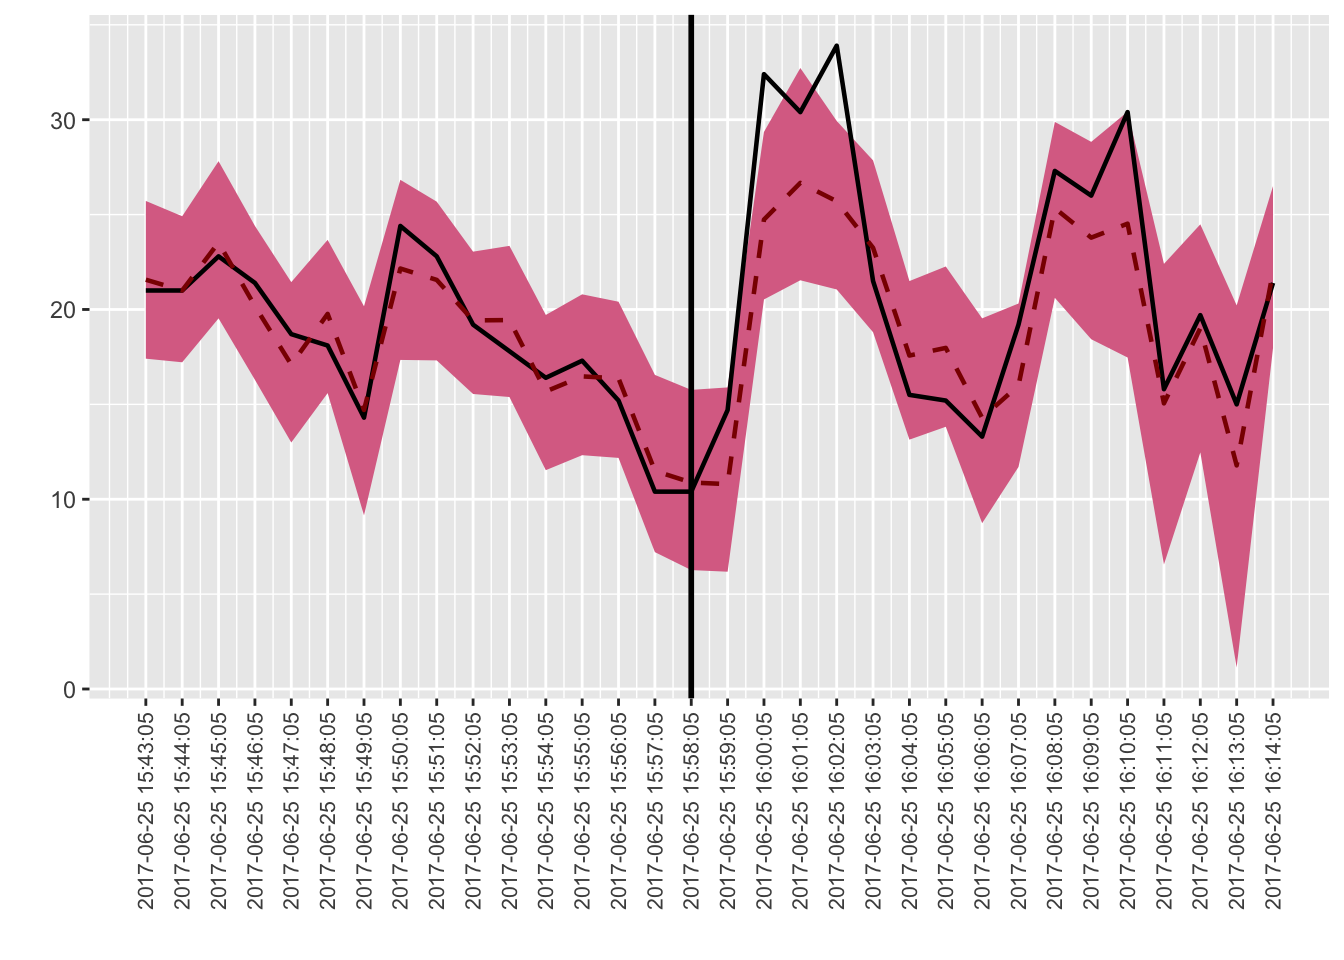
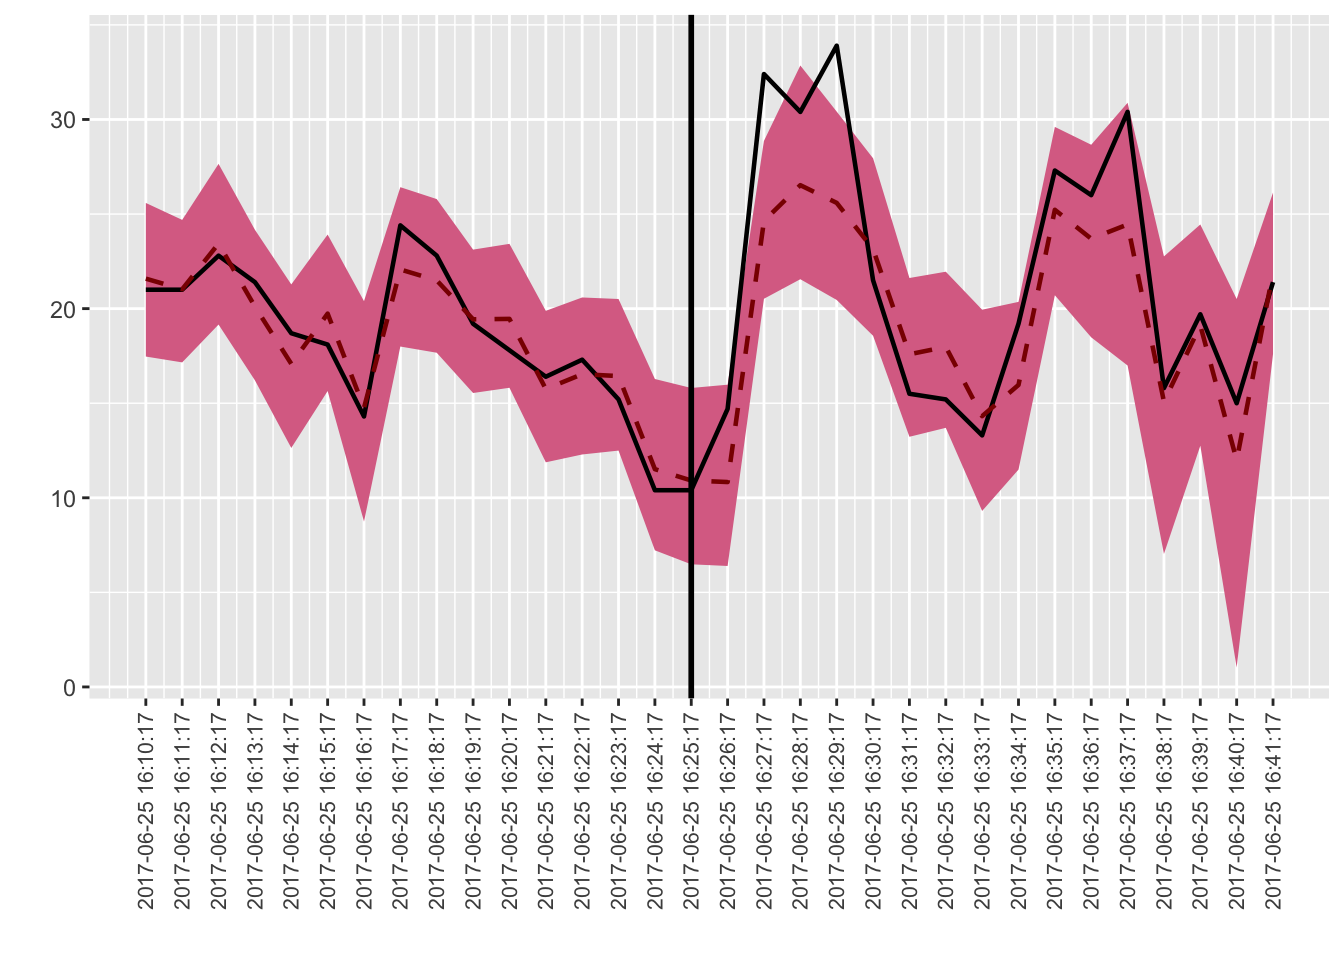
Fix contextual.Rmd

diff --git a/docs/articles/contextual_anomaly.html b/docs/articles/contextual_anomaly.html
@@ -84,32 +84,32 @@
 <div id="anomaly-detection" class="section level3">
 <h3 class="hasAnchor">
 <a href="#anomaly-detection" class="anchor"></a>Anomaly detection</h3>
-<p>Different subscriber behaviours, hardware setups, and software configurations in software generate various patterns. A team validates its functionality by strict evaluation process, such as test pass rates, trouble reports, or key performance indicators. However, absence of evidence is not an evidence of absence. It is hard to detect abnormality when unknown cases deviated from normal behaviours. The root cause for these cases might be due to unseen user behaviors, hardware malfunctions or software defects. We call this anomaly.</p>
-<p>Anomaly detection refers to the problem of finding patterns in data that do not conform to the expected behaviour occurring on a network. For example, we can identify unusual peaks and drops of traffic which are different from normal pattern. Since it is hard to conclude possible abnormal behaviours by rule-based system, a company commonly applies machine learning techniques to detect network anomaly. It is important in computer system performance mornitoring perspective, which can detect anomalies quickly and automaticallly.</p>
-<p>It is also important to point out that anomaly detection is different from intrusion detection. While both of them aim to detect significant changes, intrusion detection aims to detect policay violations rather than possible product defects.</p>
+<p>Different subscriber behaviours, hardware setups, and software configurations in the Internet service product generate various patterns. A development team validates its functionality by strict evaluation process, such as test pass rates, trouble reports, or key performance indicators. However, absence of evidence is not an evidence of absence. It is hard to detect abnormality when unknown cases deviated from normal behaviours. The root cause for these cases might be due to unseen user behaviors, hardware malfunctions or software defects. We call this anomaly.</p>
+<p>Anomaly detection refers to the problem of finding patterns in data that do not conform to the expected behaviour occurring on a network. For example, we can identify unusual peaks and drops of traffic which are different from normal pattern. Since it is hard to conclude possible abnormal behaviours by rule-based system, a company commonly applies machine learning techniques to detect anomaly. It is important in computer system performance mornitoring perspective to detect anomalies quickly and automaticallly.</p>
+<p>Note that anomaly detection is different from intrusion detection. While both of them aim to detect significant changes, intrusion detection aims to detect policay violations rather than possible product defects.</p>
 </div>
 <div id="contextual-anomaly" class="section level3">
 <h3 class="hasAnchor">
 <a href="#contextual-anomaly" class="anchor"></a>Contextual anomaly</h3>
 <p>Potential anomalies in continuous sequence can be divided into three different types.</p>
 <ul>
-<li>a point anomaly, also known as an outlier, occurs when a data point is anomalous</li>
-<li>a collective anomaly occurs when a group of data points are anomalous while each data point may not be anomaly by itself</li>
-<li>a contextual point or contextual collective anomaly occurs when a single data point is anomalous or collective data points are anomalous with regards to the context</li>
+<li>Point anomaly, also known as an outlier, occurs when a data point is anomalous</li>
+<li>Collective anomaly occurs when a group of data points are anomalous while each data point may not be an anomaly by itself</li>
+<li>Contextual point or contextual collective anomaly occurs when a single data point is anomalous or collective data points are anomalous with regards to the context</li>
 </ul>
 <p>While it is easier to discover point anomaly, it is much harder to detect contextual anomaly since we need to take the context into account in order to explain whether it is normal or abnormal. We, therefore, cannot simply judge the time-series plot by its shape if more than one contextual attributes are required to judge. A contextual anomaly detection algorithm is required to consider all the important varialbes that may explain suspicious network node behaviours.</p>
-<p>Detecting a contextual anomaly is hard as follows.</p>
+<p>Here are the more detailed reasons why detecting a contextual anomaly is hard:</p>
 <ul>
-<li>It is hard to make a generic algorithm for anomaly detection. Since the definition of abnormal behaviour is quite different from company to company, many anomaly detection algorithms have been developed for specific application to meet each company’s requirements.</li>
+<li>It is hard to make a generic algorithm for contextual anomaly. Since the definition of abnormal behaviour is quite different from company to company, many anomaly detection algorithms have been developed for specific application to meet each company’s requirements.</li>
 <li>The training data for anomaly detection system are very asymmetric since few and diverse anomalies are observed against a much larger set of normal cases. This makes it hard to detect an error when an unseen behaviour presents itself.</li>
 <li>A metric that is too sensitive to differentiate will yield many false alarms. Similarly, a metric that is not sensitive enough will yield many missed detections.</li>
-<li>A behaviour that can be considered as normal in one situation can be abnormal in other situations. There may be more than one normal behaviour, and each behaviour can be quite different depending on the context.</li>
+<li>A behaviour that can be considered as normal in one situation can be abnormal in other situations. Also, there may be more than one normal behaviour depending on domain, and each behaviour can be quite different depending on the context.</li>
 </ul>
 </div>
 <div id="bayesian-approach" class="section level3">
 <h3 class="hasAnchor">
 <a href="#bayesian-approach" class="anchor"></a>Bayesian approach</h3>
-<p>The general idea in Bayesian anomaly detection, is to build a probablistic model over normal cases, and to compare new samples with trained model when they arrived. Samples that have small probabilities of being generated by the model are considred anomalies, that is, they are very unlikely to belong to a set of normal cases. If the number of potential indicators becomes large, it becomes hard to induce the best set of indicators In worst case, the number of regressors can be larger than the number of training samples, due to data sparsity.</p>
+<p>The general idea in Bayesian anomaly detection is to build a probablistic model over normal cases, and to compare new samples with trained model when they arrived. Samples that have small probabilities of being generated by the model are considred anomalies, that is, they are very unlikely to belong to a set of normal cases. If the number of potential indicators becomes large, it becomes hard to induce the best set of indicators In worst case, the number of regressors can be larger than the number of training samples, due to data sparsity.</p>
 <p><code>cbar</code> creates a probablistic model that finds the best indicators to define context and to conclude potential network anomalies based on their context. This library depends <code>bsts</code> and <code>Boom</code>, which <a href="https://sites.google.com/site/stevethebayesian/">Steven L Scott</a> developes.</p>
 <ul>
 <li>It utilises the Bayesian approach to automatically find its best indicators among the total to reduce the dimensions of raw data.</li>

diff --git a/docs/articles/quickstart.html b/docs/articles/quickstart.html
@@ -128,22 +128,22 @@ mea_session &lt;-<span class="st"> </span><span class="dv">17</span>:<span class
 <p>If you hope to see details of those anomalies:</p>
 <div class="sourceCode"><pre class="sourceCode r"><code class="sourceCode r"><span class="kw"><a href="../reference/summarise_anomaly.html">summarise_anomaly</a></span>(.cbar, <span class="dt">.session =</span> <span class="st">"measurement"</span>)</code></pre></div>
 <pre><code>##               datetime     session    y point_pred lower_bound upper_bound
-## 1  2017-06-25 15:59:05 measurement 14.7   10.79644    6.180945    15.89252
-## 2  2017-06-25 16:00:05 measurement 32.4   24.73811   20.527681    29.35696
-## 3  2017-06-25 16:01:05 measurement 30.4   26.67088   21.538984    32.72437
-## 4  2017-06-25 16:02:05 measurement 33.9   25.70205   21.054858    29.93558
-## 5  2017-06-25 16:03:05 measurement 21.5   23.24946   18.801597    27.85551
-## 6  2017-06-25 16:04:05 measurement 15.5   17.57241   13.140331    21.49648
-## 7  2017-06-25 16:05:05 measurement 15.2   17.97496   13.819274    22.26556
-## 8  2017-06-25 16:06:05 measurement 13.3   14.28819    8.736407    19.53180
-## 9  2017-06-25 16:07:05 measurement 19.2   15.99334   11.702267    20.31424
-## 10 2017-06-25 16:08:05 measurement 27.3   25.33573   20.612562    29.88386
-## 11 2017-06-25 16:09:05 measurement 26.0   23.78642   18.431767    28.83285
-## 12 2017-06-25 16:10:05 measurement 30.4   24.52075   17.468223    30.42147
-## 13 2017-06-25 16:11:05 measurement 15.8   15.05263    6.561828    22.40308
-## 14 2017-06-25 16:12:05 measurement 19.7   19.00964   12.463503    24.48650
-## 15 2017-06-25 16:13:05 measurement 15.0   11.78334    1.135847    20.21512
-## 16 2017-06-25 16:14:05 measurement 21.4   21.99411   17.946843    26.49929
+## 1  2017-06-25 16:26:17 measurement 14.7   10.83243    6.395136    15.97974
+## 2  2017-06-25 16:27:17 measurement 32.4   24.63836   20.522321    28.86909
+## 3  2017-06-25 16:28:17 measurement 30.4   26.52635   21.554893    32.85220
+## 4  2017-06-25 16:29:17 measurement 33.9   25.59123   20.458326    30.41581
+## 5  2017-06-25 16:30:17 measurement 21.5   23.14457   18.566890    27.94906
+## 6  2017-06-25 16:31:17 measurement 15.5   17.58748   13.225139    21.61881
+## 7  2017-06-25 16:32:17 measurement 15.2   17.97823   13.698295    21.95214
+## 8  2017-06-25 16:33:17 measurement 13.3   14.31597    9.304138    19.94347
+## 9  2017-06-25 16:34:17 measurement 19.2   15.96587   11.490485    20.35722
+## 10 2017-06-25 16:35:17 measurement 27.3   25.22420   20.706906    29.60669
+## 11 2017-06-25 16:36:17 measurement 26.0   23.69517   18.482000    28.66382
+## 12 2017-06-25 16:37:17 measurement 30.4   24.44893   16.992187    30.88080
+## 13 2017-06-25 16:38:17 measurement 15.8   15.07900    7.029821    22.76039
+## 14 2017-06-25 16:39:17 measurement 19.7   19.11409   12.750358    24.44871
+## 15 2017-06-25 16:40:17 measurement 15.0   11.98549    1.030746    20.50815
+## 16 2017-06-25 16:41:17 measurement 21.4   21.91069   17.591260    26.13466
 ##    anomaly
 ## 1    FALSE
 ## 2     TRUE

diff --git a/docs/reference/bsts_model.html b/docs/reference/bsts_model.html
@@ -125,6 +125,12 @@
 
     <p><code>bsts</code> which is a bsts model</p>
     
+    <h2 class="hasAnchor" id="references"><a class="anchor" href="#references"></a>References</h2>
+
+    <p>Scott, S. L., &amp; Varian, H. R. (2014). Predicting the present with
+  bayesian structural time series. International Journal of Mathematical
+  Modelling and Numerical Optimisation, 5(1-2), 4-23.</p>
+    
 
   </div>
   <div class="col-md-3 hidden-xs hidden-sm" id="sidebar">
@@ -133,6 +139,8 @@
       <li><a href="#arguments">Arguments</a></li>
       
       <li><a href="#value">Value</a></li>
+
+      <li><a href="#references">References</a></li>
           </ul>
 
   </div>

diff --git a/docs/index.html b/docs/index.html
@@ -76,6 +76,7 @@
 <a href="#cbar" class="anchor"></a>cbar</h1></div>
 
 <p>This R package focuses on tools for detecting anomaly on time series, with Bayesian contextual anomaly detection.</p>
+<p>For the details, check <a href="https://zedoul.github.io/cbar/">cbar webpage</a>.</p>
 </div>
   </div>
 
